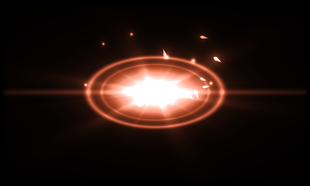
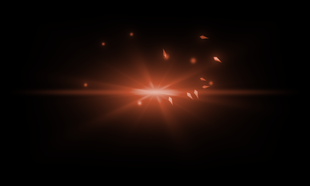
Drop the ring from SYNK mode's hit and make its life bar one solid gradient
The hit is now a soft pool of light with a star, a lens streak and sparks,
fading out evenly with no rim. The life bar fills as a single coral-to-amber
bar instead of 24 segments.

diff --git a/tools/make_synk_mode_art.py b/tools/make_synk_mode_art.py
@@ -217,11 +217,10 @@ def pause():
 
 def hit():
     """SYNK mode's hit, in the spirit of SSRG's Effect_A: a flat pool of light that swells to
-    a white-hot bloom on the third frame, crossed by a lens streak, then sinks back into
-    rings and leaves a few sparks drifting. Same 310 x 186 sprite, eleven frames, 33 fps.
+    a white-hot bloom on the third frame, crossed by a lens streak, then sinks back to
+    a glint and leaves a few sparks drifting. Same 310 x 186 sprite, eleven frames, 33 fps.
     What makes it SYNK's own: where SSRG swirls discs of light, this opens a six-rayed star
-    lying on the road, wears the note's crisp double rim, and throws kite-shaped sparks
-    upward. Drawn on black for additive blending; the game recolours it per note."""
+    lying on the road and throws kite-shaped sparks upward, with no ring at all. Drawn on black for additive blending; the game recolours it per note."""
     w, h, ss = 310, 186, 2
     Y, X = np.mgrid[0:h * ss, 0:w * ss].astype(float) / ss
     cx, cy, half, squash = 155.0, 92.0, 150.0, .52
@@ -241,27 +240,18 @@ def hit():
         fade = (1 - t) ** 1.2
         light = np.zeros_like(r)
         # The pool: a soft flat bloom with a wide faint skirt.
-        light += np.exp(-(r / (size * .62)) ** 2) * heat * .62
+        light += np.exp(-(r / (size * .66)) ** 2) * heat * .42
         light += np.exp(-r / (size * .7)) * heat * .22
-        # A glassy fill out to the rim, so the whole disc glows as SSRG's does.
-        light += smooth(min(size * .86, .50) * 1.12, min(size * .86, .50) * .45, r) * heat * .34
+        # A soft glassy fill, so the whole pool glows as SSRG's does. No ring: it fades out evenly.
+        light += np.exp(-(r / (size * .60)) ** 2) * heat * .30
         # Its white-hot heart.
-        light += np.exp(-(r / (size * .34)) ** 2) * heat * 1.15
+        light += np.exp(-(r / (size * .30)) ** 2) * heat * .75
         # The star: six soft rays lying on the road, turning slowly, longest at the peak.
         turn = .35 + 1.1 * t
         rays = np.cos(3 * (theta + turn)) ** 2
         fine = np.cos(6 * (theta - turn * .6) + 1.0) ** 2
-        light += rays ** 7 * np.exp(-r / (size * .5)) * heat * .55 * smooth(.02, .12, r)
-        light += fine ** 14 * np.exp(-r / (size * .34)) * heat * .28 * smooth(.02, .10, r)
-        # The note's rim: a crisp double ring riding the edge of the pool, staying compact.
-        rim = min(size * .86, .50)
-        width = .020 * (1 - .4 * t) + .005
-        light += np.exp(-((r - rim) / width) ** 2) * (.30 + .55 * fade) * min(1.0, heat * 1.2)
-        light += np.exp(-((r - rim * .80) / (width * .5)) ** 2) * fade * .40 * min(1.0, heat * 1.2)
-        # Once the bloom sinks, a dark gap opens inside the rim, as SSRG's discs do.
-        if .45 <= t <= .8:
-            gap = np.exp(-((r - rim * .9) / .035) ** 2) * (1 - abs(t - .62) / .2)
-            light *= 1 - .45 * np.clip(gap, 0, 1)
+        light += rays ** 7 * np.exp(-r / (size * .5)) * heat * .38 * smooth(.02, .12, r)
+        light += fine ** 14 * np.exp(-r / (size * .34)) * heat * .18 * smooth(.02, .10, r)
         # The lens streak across the road, widest at the peak.
         light += np.exp(-(dy / (1.0 + 1.6 * heat)) ** 2) * np.exp(-np.abs(dx) / (half * size * 1.25)) * heat * .55
         # Near the end the heart shrinks to a four-point glint.
@@ -285,11 +275,12 @@ def hit():
             else:
                 light += np.exp(-(np.hypot(X - sx, Y - sy) / (sz * .38)) ** 2) * alive * 1.3
                 light += np.exp(-np.hypot(X - sx, Y - sy) / (sz * .9)) * alive * .25
-        # Keep everything inside the sprite.
-        light *= smooth(0, 8, np.minimum(np.minimum(X, w - X), np.minimum(Y, h - Y)))
-        light = np.clip(light, 0, 2.2)
-        base = np.clip(light, 0, 1)
-        rgb = CORAL * base[..., None] + (WHITE - CORAL) * np.clip(light - .7, 0, 1)[..., None]
+        # Fade to nothing well before the sprite's edges, so its rectangle never shows.
+        light *= smooth(1.0, .5, np.maximum(np.abs(dx) / (w * .5), np.abs(dy) / (h * .5)))
+        # A soft shoulder instead of a hard clip: only the very heart reaches full brightness,
+        # so the game's recolouring gives a glow that melts outward rather than a white blob.
+        base = 1 - np.exp(-np.clip(light, 0, 4) * .9)
+        rgb = CORAL * base[..., None] + (WHITE - CORAL) * np.clip((base - .72) / .28, 0, 1)[..., None] * base[..., None]
         img = Image.fromarray(np.clip(rgb * 255 + .5, 0, 255).astype(np.uint8), "RGB").resize((w, h), Image.LANCZOS).convert("RGBA")
         for attempt in range(8):
             try:
